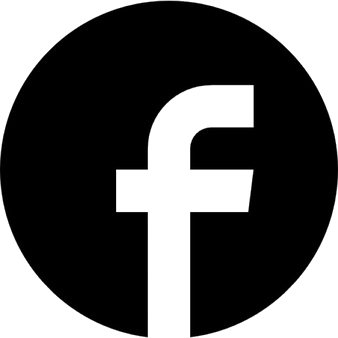
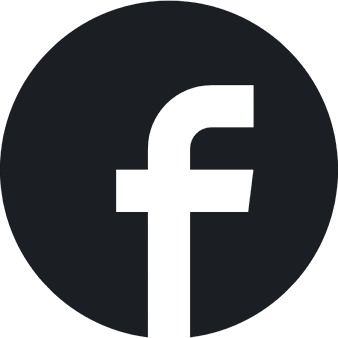
Changing design a little bit

diff --git a/index.html b/index.html
@@ -3,30 +3,56 @@
 
 <head>
 	<meta charset="utf-8"/>
-	<title>Hello</title>
+	<title>Kamila Galka</title>
 	<meta http-equiv="X-UA-Compatible" content="IE=edge,chrome=1"/>
 	
 	<link rel="stylesheet" href="websiteStyle.css" type="text/css"/>
+	
+	<link href="https://fonts.googleapis.com/css?family=Montserrat" rel="stylesheet">
 
 </head>
 
 <body>
 	
-	<a href="https://www.facebook.com/kamilagalka99" target="_blank" title="facebook">
-	<img src="img/fb.png"  alt="Mój facebook" width="50" height="50"/></a>
-	
-	</br> </br>
-	
-	<img src="img/mail.png" alt="Mój adres e-mail" width="50" height="50"/>
-	<h2> contactkamilagalka@gmail.com </h2>
-	
-	
-	
 	<div id="container">
 	
 		<div id="logo">
-			<h1>Kamila Gałka haha3</h1>
+			<h1>Kamila Gałka</h1>
+		</div> 
+		
+		
+		<div id="content">
+		
 		</div>
+		
+		
+		</br></br></br>
+		
+		<div id="contactInfo">
+		
+			<div class="social" style="float:center">
+				<a href="https://www.facebook.com/kamilagalka99" target="_blank" title="Facebook">
+				<img src="img/fb.png"  alt="Mój Facebook" width="50" height="50"/>
+				</a>
+			</div>
+			
+			<div class="social">
+				<a href="https://github.com/kamilagalka" target="_blank" title="GitHub">
+				<img src="img/github.png"  alt="Mój GitHub" width="50" height="50"/>
+				</a>
+			</div>
+			
+			<div style="clear:both;"></div>
+			
+			
+		</br>
+			<h3> contactkamilagalka@gmail.com</h3>
+		
+		</div>
+		
+		
+		<div id="footer">
+		&copy All rights reserved </div>
 	
 	</div>
 	

diff --git a/websiteStyle.css b/websiteStyle.css
@@ -2,13 +2,26 @@ body{
 	background-color: lightgray;
 	font-size: 15px;
 	color: black;
-}
-h2{
-	font-size: 10px;
-	font-family: Verdana;
+	font-family: Montserrat;
+	text-align:center;
 }
 
-container{
+h1{
+	font-size: 50px;
+	color: #2c3035;
+}
+h2{
+	font-size: 15px;
+}
+
+h3{
+	font-size: 3px;
+	color: #2c3035;
+}
+
+
+
+#container{
 	widht: 1000px;
 	marigin-left: auto;
 	marigin-right: auto;
@@ -16,6 +29,35 @@ container{
 }
 
 #logo{
+	margin-top: 20px;
 	font-size: 20px;
+	letter-spacing: 2px;
+
 }
+
+#content{
+	min-height:300px;
+	background-color: lightgray;
+}
+
+#contactInfo{
+	position: relative;
+	text-align: center;
+}
+
+#footer{
+	
+	color: grey;
+	font-size: 10px;
+}
+
+.social{
+	display: inline-block;
+	text-align: center;
+}
+
+.social:hover{
+	cursor: pointer;
+}
+
 

diff --git a/myjavascript.js b/myjavascript.js
@@ -1,0 +1,13 @@
+function myFunction() {
+  /* Get the text field */
+  var copyText = document.getElementById("myInput");
+
+  /* Select the text field */
+  copyText.select();
+
+  /* Copy the text inside the text field */
+  document.execCommand("copy");
+
+  /* Alert the copied text */
+  alert("Copied the text: " + copyText.value);
+}
